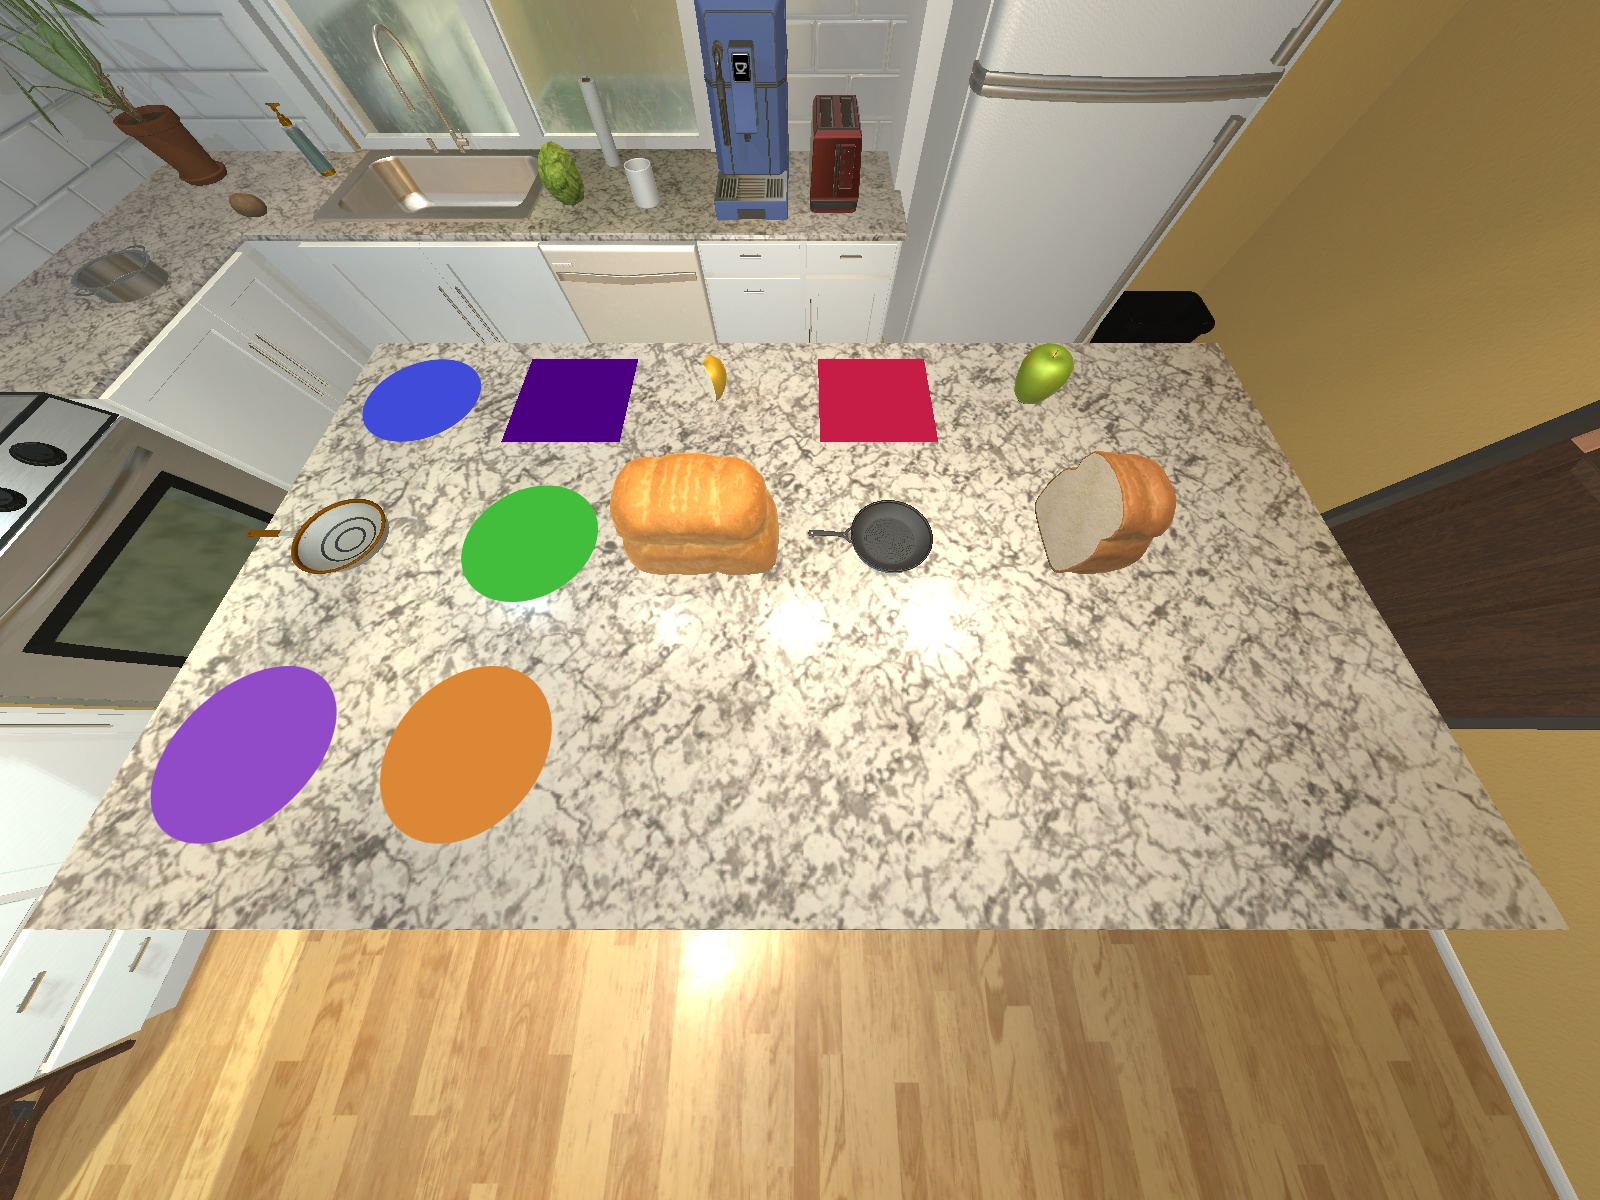
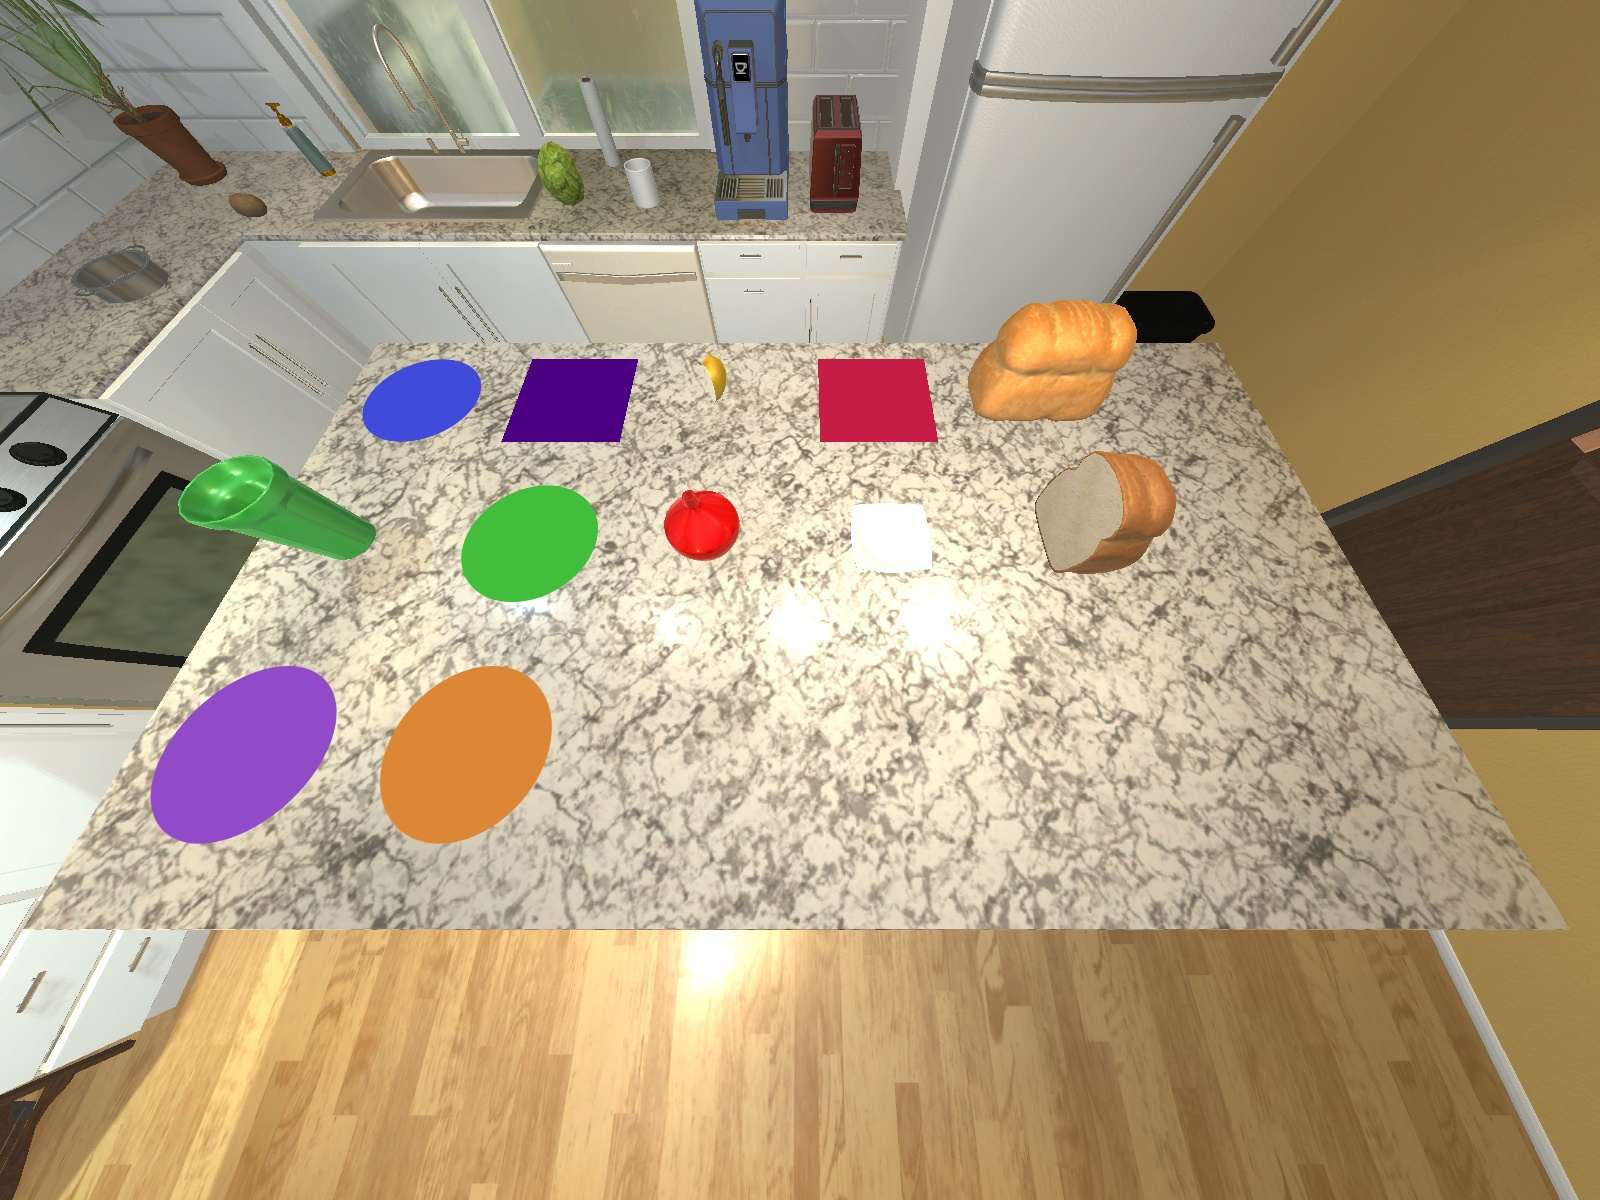
Implemented slicing (#11)
* added breakable objects back into test scenes

* Implement slicing and update methods for placing assets at empty locations and hiding to reflect changes visually and in the grid memory

* Add functionality for creating combination tuples to sample from for scene variants

Changed region(s): [[0.375, 0.37, 0.5938, 0.4933], [0.0938, 0.37, 0.2812, 0.4933], [0.5938, 0.2467, 0.7188, 0.37]]

diff --git a/src/scene_configs.py b/src/scene_configs.py
@@ -1,0 +1,128 @@
+import os
+import re
+import sys
+from itertools import combinations
+
+from ithor.utils.items import Items
+
+basepath = os.path.dirname(os.path.dirname(os.path.abspath("")))
+if not basepath in sys.path:
+    sys.path.append(basepath)
+
+items = Items()
+assets = items.assets
+
+
+def get_type(asset):
+    return re.sub(
+        "\d+\w*", "", asset["name"]
+    ).lower()  # Discard the number (and state - for objects only)
+
+
+def get_state(asset):
+    state = re.sub("\w*\d+", "", asset["name"]).lower()  # Discard the name and number
+    if state == "":
+        return "whole"
+    else:
+        return state
+
+
+def same_type(asset1, asset2):
+    asset1_type = get_type(asset1)
+    print("Asset type (1)")
+    print(asset1_type)
+    asset2_type = get_type(asset2)
+    print("Asset type (2)")
+    print(asset2_type)
+    return asset1_type == asset2_type
+
+
+def same_state(asset1, asset2):
+    asset1_state = get_state(asset1)
+    print("Asset state (1)")
+    print(asset1_state)
+    asset2_state = get_state(asset2)
+    print("Asset state (2)")
+    print(asset2_state)
+    return asset1_state == asset2_state
+
+
+# Mats
+# mats = [asset for asset in assets if items.is_mat(asset["name"])]
+# colours = {mat["colour"] for mat in mats}
+# mats_by_colour = {}
+# same_colour_same_type = []
+# same_colour_different_type = []
+# temp_similar_colour_same_type = []
+# for colour in colours:
+#     mats_by_colour[colour] = [mat for mat in mats if mat["colour"] == colour]
+#     combos = list(combinations(mats_by_colour[colour], 2))
+#     # Check if colour is one of the purple colours
+#     if len(combos) == 1:
+#         for mat in mats_by_colour[colour]:
+#             temp_similar_colour_same_type.append(mat)
+#     counter = 0
+#     for i, combo in enumerate(combos):
+#         if same_type(combo[0], combo[1]):
+#             same_colour_same_type.append(combo)
+#         else:
+#             if counter == 0:
+#                 same_colour_different_type.append(combo)
+#                 counter += 1
+
+# similar_colour_same_type = [
+#     combo
+#     for combo in combinations(temp_similar_colour_same_type, 2)
+#     if same_type(combo[0], combo[1])
+# ]
+
+
+# Mats
+objs = [asset for asset in assets if items.is_object(asset["name"])]
+types = {get_type(obj) for obj in objs}
+objs_by_type = {}
+same_colour_different_state = []
+same_type_different_colour = []
+same_type_different_colour_state = []
+for type in types:
+    objs_by_type[type] = [obj for obj in objs if get_type(obj) == type]
+    print(f"{type}s")
+    combos = list(combinations(objs_by_type[type], 2))
+    for i, combo in enumerate(combos):
+        print(f"Combination {i}")
+        if combo[0]["colour"] == combo[1]["colour"]:
+            print("Same colour different state")
+            print((combo[0]["name"], combo[1]["name"]))
+            print((combo[0]["colour"], combo[1]["colour"]))
+            same_colour_different_state.append(combo)
+        else:
+            if same_state(combo[0], combo[1]):
+                same_type_different_colour.append(combo)
+                print("Same type different colour")
+                print((combo[0]["name"], combo[1]["name"]))
+                print((combo[0]["colour"], combo[1]["colour"]))
+            else:
+                same_type_different_colour_state.append(combo)
+                print("Same type different colour + state")
+                print((combo[0]["name"], combo[1]["name"]))
+                print((combo[0]["colour"], combo[1]["colour"]))
+
+print("==" * 10)
+
+print("Same colour different state")
+print([(tup[0]["name"], tup[1]["name"]) for tup in same_colour_different_state])
+print("Same type different colour")
+print([(tup[0]["name"], tup[1]["name"]) for tup in same_type_different_colour])
+print("Same type different colour + state")
+print([(tup[0]["name"], tup[1]["name"]) for tup in same_type_different_colour_state])
+
+
+# # n_mat = 6 # There will always be 6 mats
+# # selected_mats = []
+
+# # for i in range(n-m)
+# #     get_unique_random(assets, selected):
+# #         colours = set([asset.colour for asset in selected])
+# #         possible_asset = [asset for asset in assets if asset.colour not in colours]
+# #         random_idx = ...
+# #         select.append(possible_assets[random_idx])

diff --git a/src/ithor/ithor_service.py b/src/ithor/ithor_service.py
@@ -1,5 +1,6 @@
 import os
 import re
+import time
 
 from ithor.utils.items import Items
 
@@ -18,6 +19,7 @@ class IthorService:
         # "\\done", "\\discard #8", "\\request #1", "\\put #3 on #V", "put #3 on #table"
 
         if "done" in command.lower():
+            time.sleep(10)
             self.follower_controller.stop()
             print("successfully stopped experiment")
         else:
@@ -33,6 +35,17 @@ class IthorService:
             elif "request" in command.lower():
                 self.follower_controller.place_asset_at_empty_location(item)
                 print(f"successfully requested {item}")
+            elif "slice" in command.lower():
+                sliced_item_slurk_id = "#" + str(
+                    int(re.findall("\d+", item_slurk_id)[0]) + 1
+                )
+                sliced_item = Items().get_name_by_slurkid(sliced_item_slurk_id)
+                assert (
+                    "Slice" in sliced_item
+                ), "The object denoted by this id can't be sliced. Try again with another!"
+                self.follower_controller.hide_asset(item)
+                self.follower_controller.place_asset_at_empty_location(sliced_item)
+                print(f"successfully sliced {item}")
             else:
                 # Pick up the specified item
                 self.follower_controller.pickup(item)

diff --git a/src/ithor/ithor_controller.py b/src/ithor/ithor_controller.py
@@ -205,14 +205,17 @@ class IthorController:
                 if y == 2 and (x == 2 or x == 3):
                     continue
                 if slot.is_empty():
+                    slot.place_object(name)
                     self.place_asset_at_location(name, x, y)
                     asset_placed = True
+                    print(f"{name} placed at {x}{y}")
 
     def place_object_on_mat(self, object_name, mat_name):
         grid = self.table.grid
         for x, column in enumerate(grid):
             for y, slot in enumerate(column):
                 if slot.mat == mat_name:
+                    slot.place_object(object_name)
                     self.place_asset_at_location(object_name, x, y)
 
     def save_img(self, fn):
@@ -258,6 +261,10 @@ class IthorController:
             position=pos,
             rotation={"x": 0, "y": 0, "z": 0},
         )
+        for column in self.table.grid:
+            for slot in column:
+                if slot.object == name:
+                    slot.remove_object()
 
     def stop(self):
         """

diff --git a/src/test_ithor.py b/src/test_ithor.py
@@ -71,11 +71,13 @@ print("*" * 20)
 
 commands = [
     "\\discard #6",
-    "\\request #1",
-    "\\put #3 on #V",
-    "\\put #3 on #table",
+    "\\slice #12",
+    "\\request #16",
+    "\\put #22 on #V",
+    "\\put #22 on #table",
     "\\done",
 ]
+
 for c in commands:
     ithor_service.update_follower_ithor_scene(c)
     if "done" in c:
